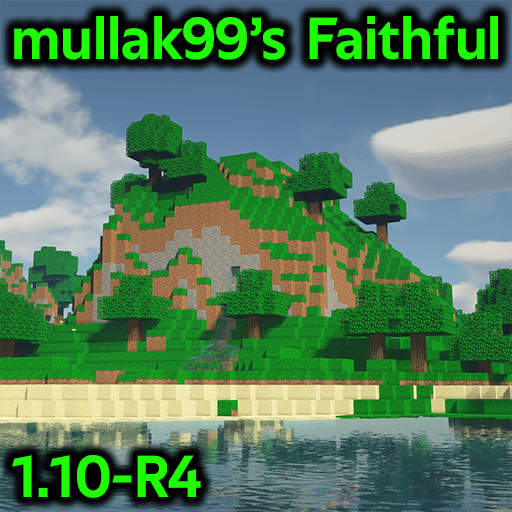
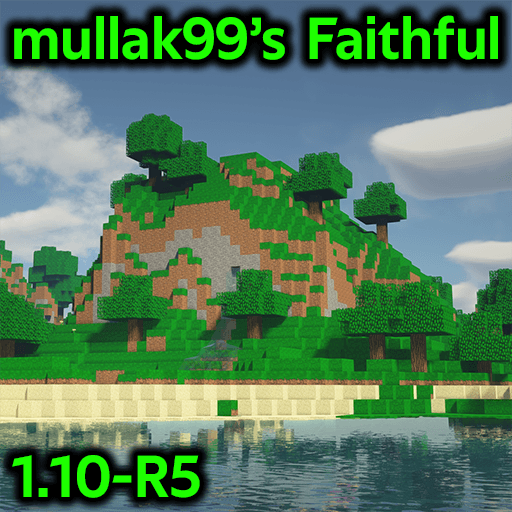
1.10-specific changes

Changed region(s): [[0.3125, 0.875, 0.4062, 1.0]]

diff --git a/ChangeLog.md b/ChangeLog.md
@@ -1,6 +1,10 @@
 # Changelog
 All notable changes to mullak99's Faithful will be documented in this file.
 
+## [MC1.10-R5] - 2022-06-09
+### Changed
+- Included changes / brought up-to-date with MC1.11-R3
+
 ## [MC1.10-R4] - 2021-12-27
 ### Changed
 - Included changes / brought up-to-date with MC1.11-R2

diff --git a/README.md b/README.md
@@ -1,6 +1,6 @@
 # mullak99's Faithful 32x
 
-**Current Branch Version:** _MC1.11-R3_  
+**Current Branch Version:** _MC1.10-R5_  
 
 ## Official Links
 
